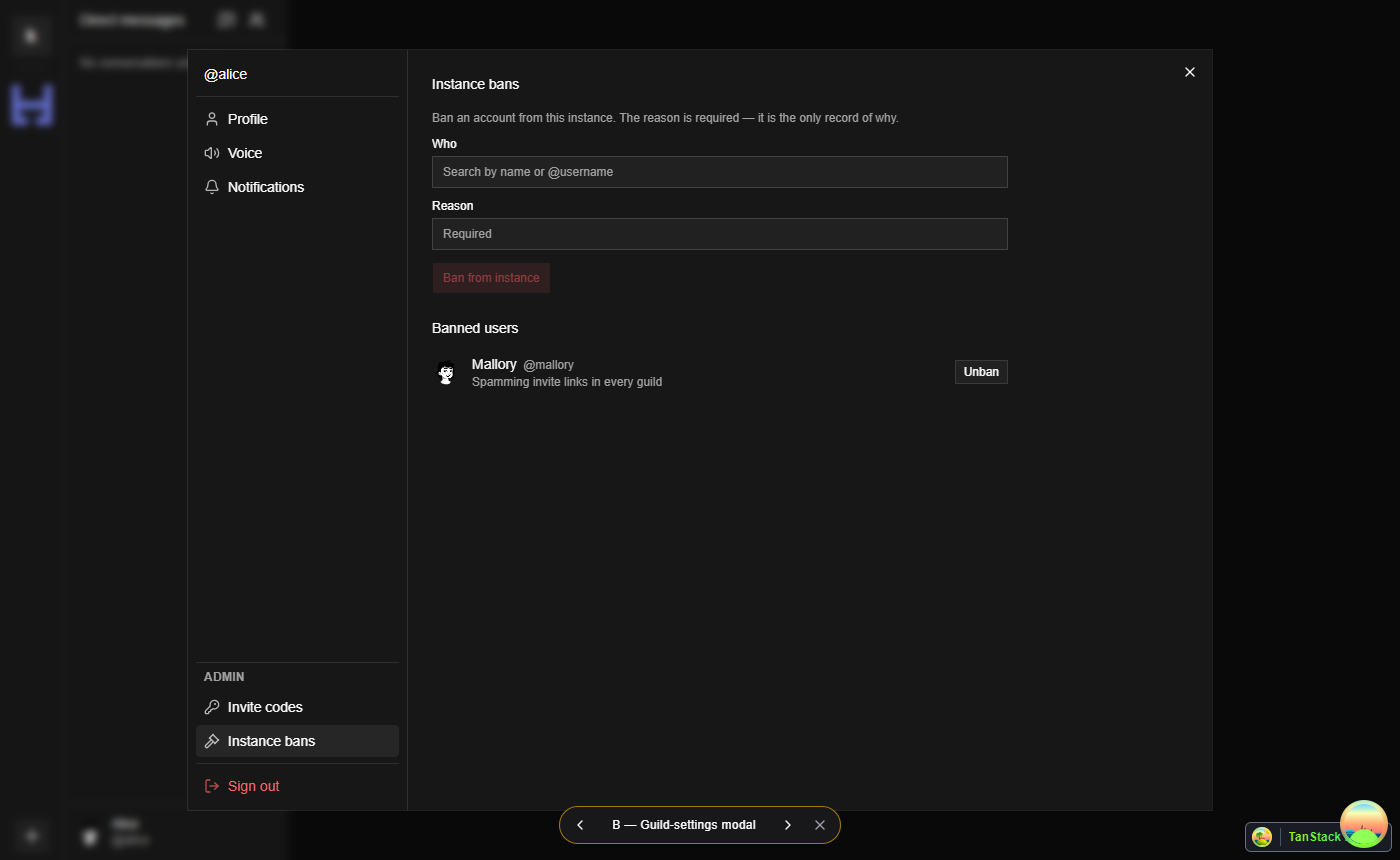
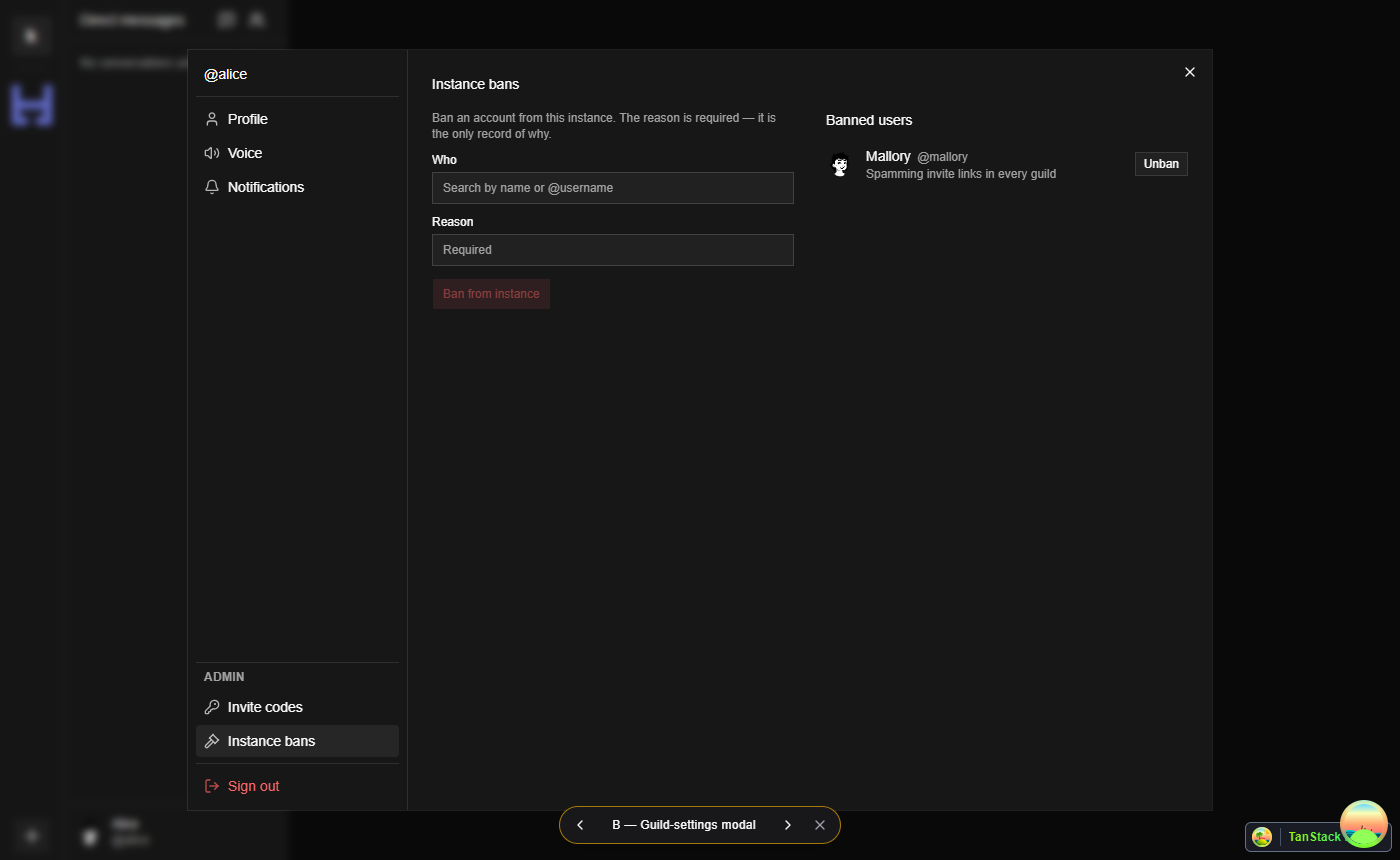
prototype(web): admin sections fill the pane (#77)
Codes list spans full width; bans becomes a two-column grid — ban form
left, banned-users list right — instead of a max-w-xl strip.

diff --git a/apps/web/src/components/user-settings-prototype/admin-sections.tsx b/apps/web/src/components/user-settings-prototype/admin-sections.tsx
@@ -29,7 +29,7 @@ export function AdminCodesSection() {
   };
 
   return (
-    <div className="flex max-w-xl flex-col gap-4">
+    <div className="flex flex-col gap-4">
       <p className="text-xs text-muted-foreground">Mint invite codes for new members.</p>
       <div>
         <Button onClick={mint}>Mint code</Button>
@@ -86,7 +86,7 @@ export function AdminBansSection() {
   const canBan = who.trim().length > 0 && reason.trim().length > 0;
 
   return (
-    <div className="flex max-w-xl flex-col gap-6">
+    <div className="grid grid-cols-1 items-start gap-x-8 gap-y-6 sm:grid-cols-2">
       <form
         className="flex flex-col gap-3"
         onSubmit={(e) => {
